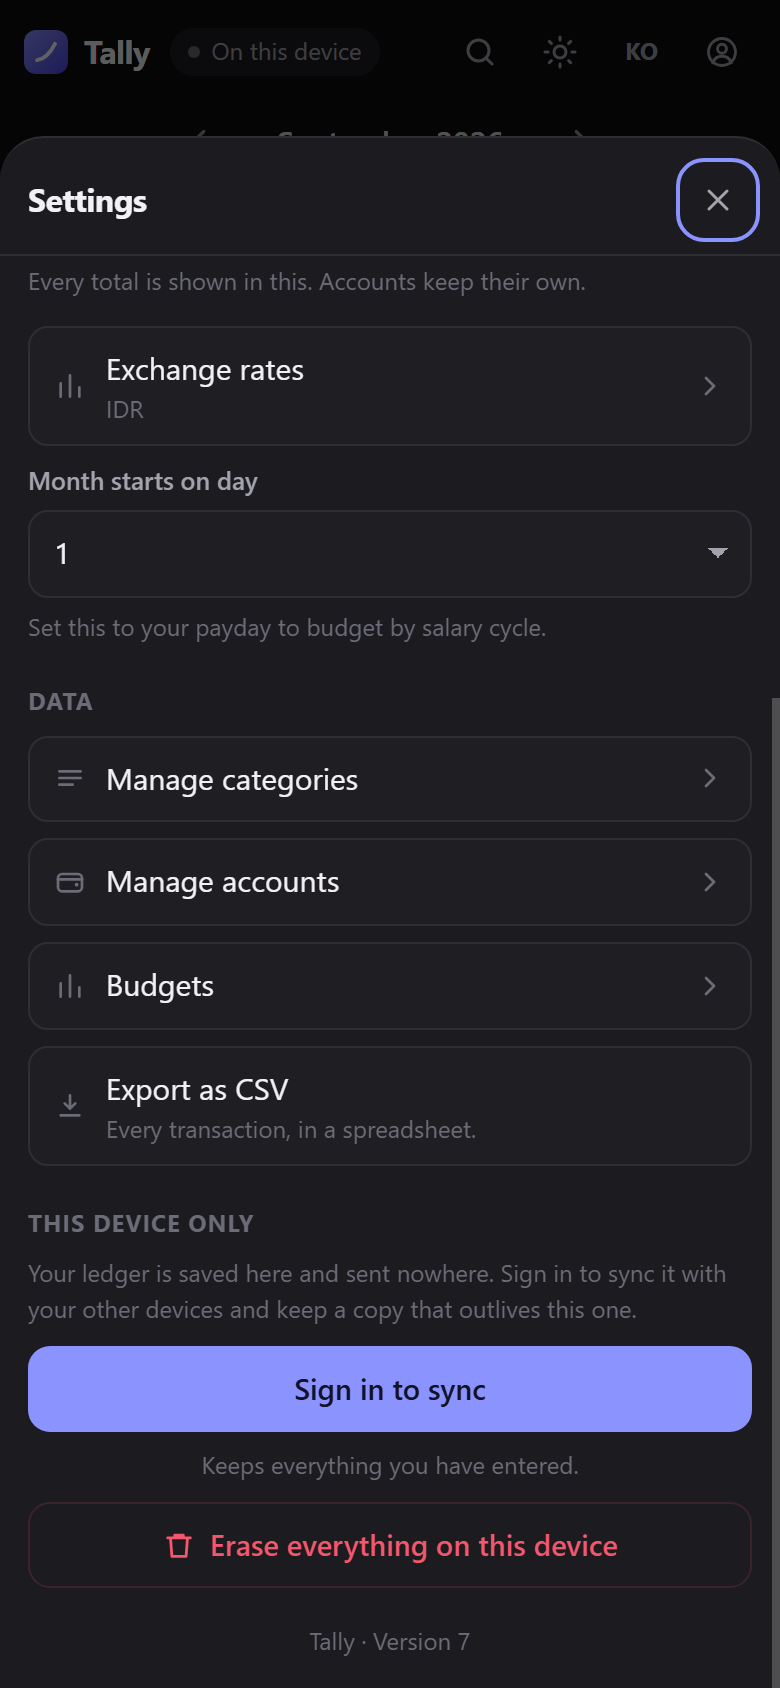
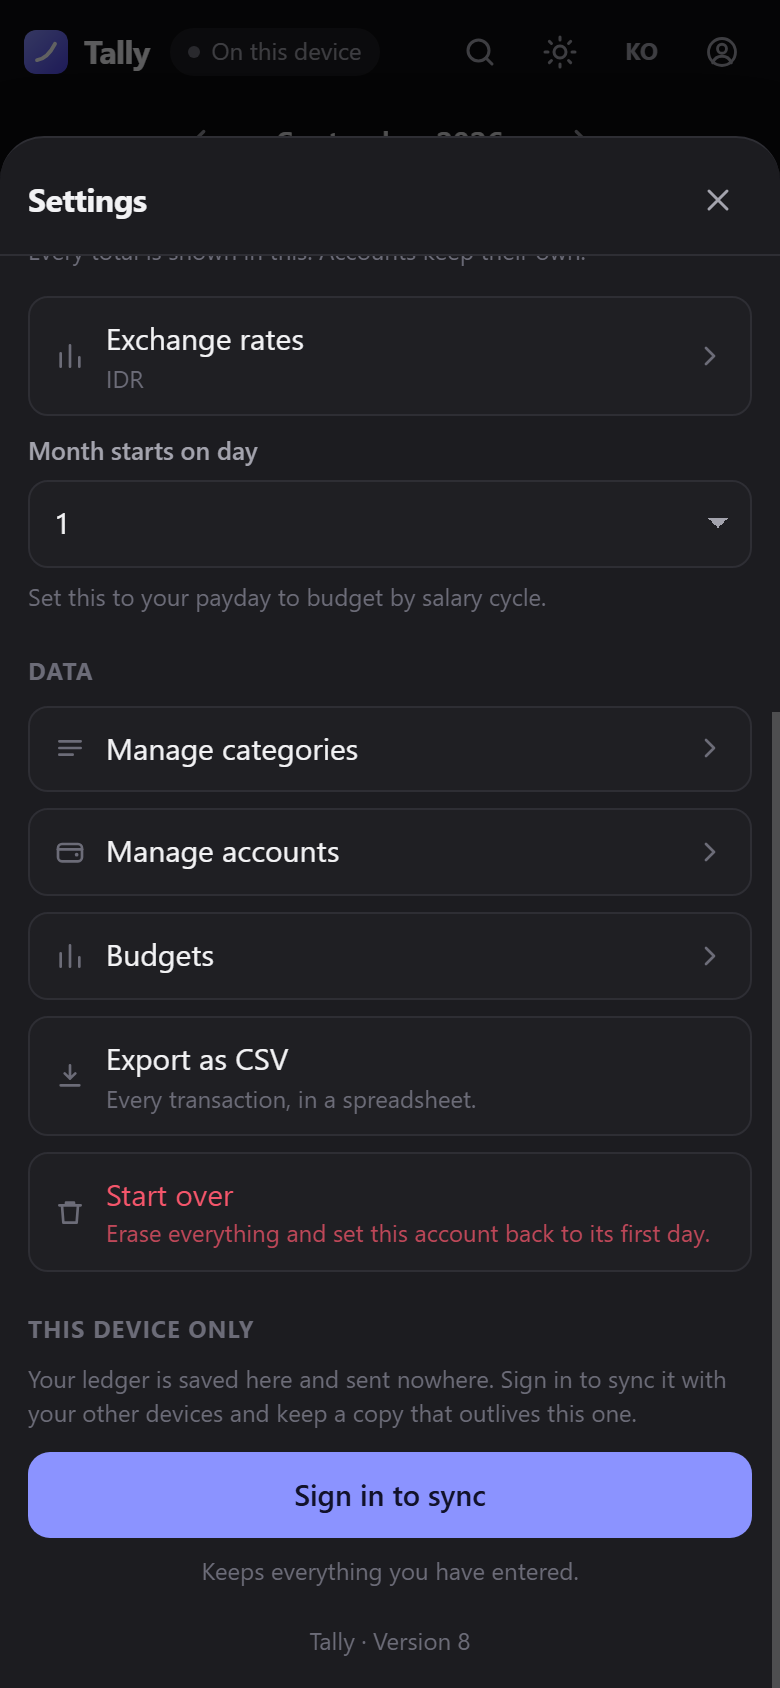
Stop spending three screenshots on one screen
Six pictures at the top of this file, and three of them were the log: once
dark, once light, once in Korean. Someone scrolling past learns the app has
a light mode and a Korean translation, which two of those three pictures had
already said.

The gallery now shows six different screens, and the last one carries both
the light theme and the Korean translation at once. Settings takes the place
that opened up, and desktop.png — which the tool has been producing all along
and no page has ever shown — goes underneath, because a wide layout is the
one thing a column of phone screenshots cannot show.

All of them retaken from the current build. The old settings shot still had
"Erase everything on this device" on it, a button that no longer exists, and
the sign-in shot still had the three feature blurbs. They also hold the same
ledger the Android screenshots do again — the same ₩260,768 of expenses, the
same ₩13,139,252 of net worth — which the old ones had drifted off by one
transaction the tool itself had added.

setup.png is gone: it was written by a run against an unconfigured project
and no page has ever referenced it.

diff --git a/README.md b/README.md
@@ -14,13 +14,20 @@ A money manager for people whose money is in more than one currency.
 </p>
 <p align="center">
   <img src="docs/screenshots/editor.png" width="240" alt="Adding a transaction, with a calculator in the amount field" />
-  <img src="docs/screenshots/log-light.png" width="240" alt="The same screen in light mode" />
-  <img src="docs/screenshots/log-korean.png" width="240" alt="The same screen in Korean" />
+  <img src="docs/screenshots/settings.png" width="240" alt="Settings: currencies, rates, the month's start day, and a way back to an empty ledger" />
+  <img src="docs/screenshots/log-korean-light.png" width="240" alt="The log again, this time in Korean and in light mode" />
+</p>
+
+<p align="center">
+  <img src="docs/screenshots/desktop.png" width="760" alt="The same ledger on a laptop, one wide column" />
 </p>
 
 <p align="center"><sub>
-Dark and light, English and Korean — the choice follows the account, not the
-device. Every figure above is real: these are taken by
+Six screens and six different things — the last of them carries both the light
+theme and the Korean translation rather than spending a picture on each. Dark
+and light, English and Korean: the choice follows the account, not the device,
+which is why the laptop above is showing what the phone was. Every figure is
+real — these are taken by
 <a href="tools/screenshots.mjs">tools/screenshots.mjs</a>, which drives the
 running app and fails the build if the arithmetic on screen is wrong.
 </sub></p>
@@ -82,7 +89,6 @@ letting anyone find out the hard way.
 <p align="center">
   <img src="docs/screenshots/signin.png" width="240" alt="The sign-in screen, offering Google or no account at all" />
   <img src="docs/screenshots/empty.png" width="240" alt="Day one: nothing recorded yet, and the banner saying where it will be kept" />
-  <img src="docs/screenshots/settings.png" width="240" alt="Settings, showing that this ledger is on this device only" />
 </p>
 
 ## Setup
